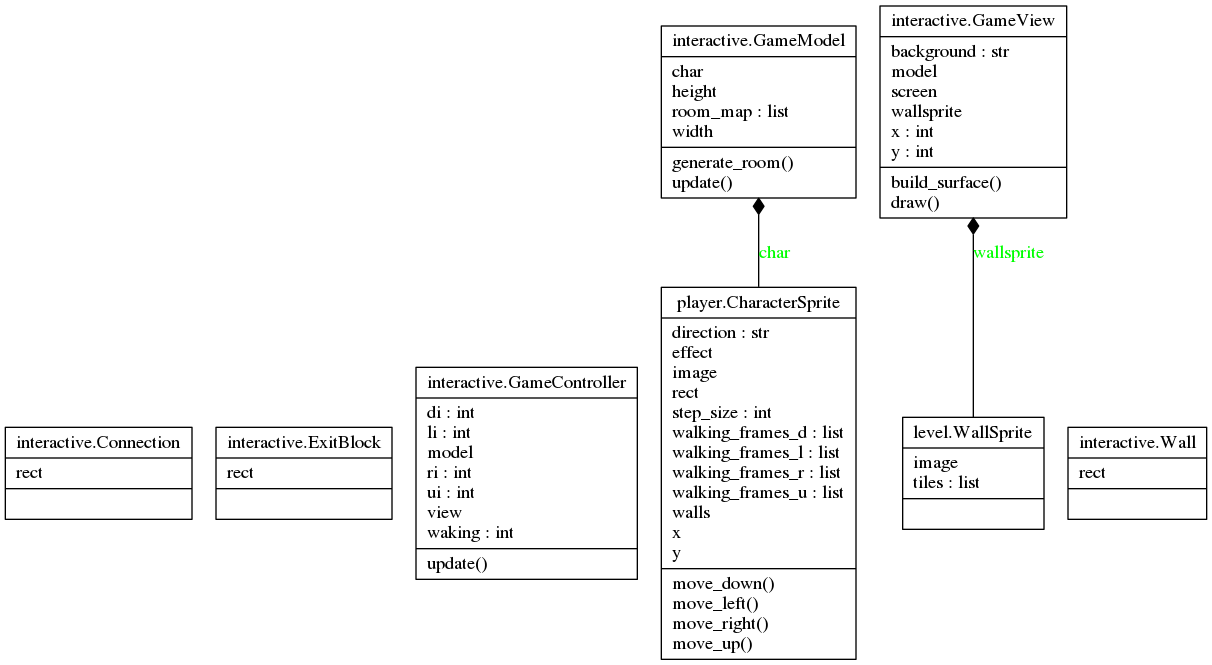
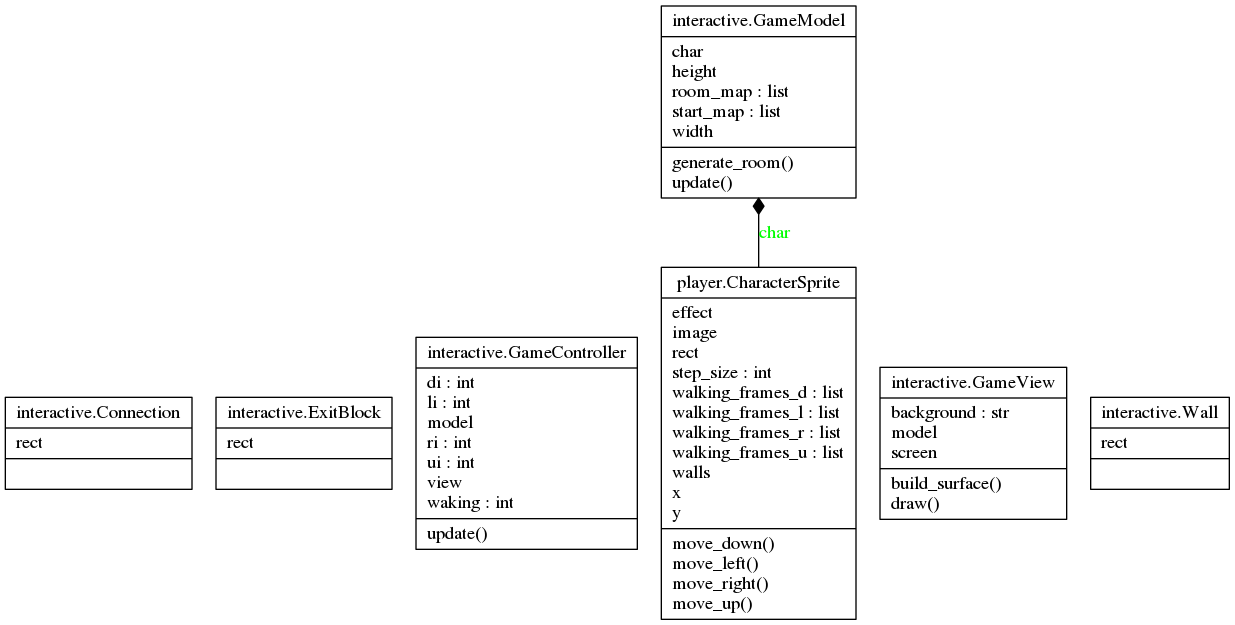
Added documentation and cleaned up old code

Changed region(s): [[0.0, 0.0, 1.0, 1.0]]

diff --git a/level.py b/level.py
@@ -4,14 +4,13 @@ from spritesheet_functions import SpriteSheet
 import random
 
 class Level(object):
-	#inherit from spritesheet? probably no, but we will need some sort of visual level as well as the programatic level
-	def __init__(self, x=0):
+	"""This builds the level as a text mapping of the tiles
+
+        attributes: None"""
+        def __init__(self, x=0):
             self.x = x
 
 	def random_gen(self):
-		#probably should take size
-		#15 strings of 20 characters
-
 		#generate top wall
 		twall = ''
 		for x in range(20):
@@ -47,38 +46,36 @@ class Level(object):
 
 
 class WallSprite(pygame.sprite.Sprite):
+    """This is the class for all of the wall sprites
 
+    attributes: image"""
     def __init__(self):
         super(WallSprite, self).__init__()
 
-        self.tiles = []
-
-        #sprite_sheet = SpriteSheet('images/rooms/Tileset.png')
         sprite_sheet = SpriteSheet('images/tilesets/walls.png')#3 x 4
         horiz = [0, 32, 64]
         vert= [0, 32, 64, 96]
         self.image = sprite_sheet.get_image(random.choice(horiz),random.choice(vert),32,32)
 
 class DoorSprite(pygame.sprite.Sprite):
+    """This is the class for all of the door sprites
+
+    attributes: image"""
 
     def __init__(self):
         super(DoorSprite, self).__init__()
-
-        self.tiles = []
 
         sprite_sheet = SpriteSheet('images/tilesets/doors.png')#4 x 1
         horiz = [0, 32, 64, 96]
         vert= [0]
 
         self.image = sprite_sheet.get_image(random.choice(horiz),random.choice(vert),32,32)
-#floor 7x 6
-#door 4x1
 class FloorSprite(pygame.sprite.Sprite):
+    """This is the class for all of the floor sprites
 
+    attributes: image"""
     def __init__(self):
         super(FloorSprite, self).__init__()
-
-        self.tiles = []
 
         sprite_sheet = SpriteSheet('images/tilesets/floors.png')#7x6
         horiz = [0, 32, 64, 96, 128, 160, 192]

diff --git a/interactive.py b/interactive.py
@@ -20,9 +20,6 @@ class GameView(object):
         pygame.mixer.music.load('sounds/TheDarkLake.mp3') # this music plays
         pygame.mixer.music.play(-1)
         self.background = 'images/room2.png'
-        self.wallsprite = WallSprite()
-        self.x = 0
-        self.y = 0
 
     def draw(self, filename):
         """ Draw the game to the pygame window"""
@@ -36,6 +33,7 @@ class GameView(object):
         pygame.display.flip()
 
     def build_surface(self, room_map):
+        """Builds the random rooms image for our procdurally generated rooms"""
         surf = pygame.Surface(size)
         x = 0
         y = 0
@@ -60,7 +58,7 @@ class GameView(object):
 
 
 class GameModel(object):
-    """This is a test model for my game
+    """This is the model for the game
 
     attributes: height, width, char, start_map, room_map"""
     def __init__(self, width, height):
@@ -132,6 +130,9 @@ class ExitBlock(object):
         self.rect = pygame.Rect(pos[0], pos[1], 32, 32)
 
 class Connection(object):
+    """It exits
+
+    attribute: rect"""
 
     def __init__(self, pos):
         connections.append(self)
@@ -159,6 +160,7 @@ class GameController(object):
         pressed = pygame.key.get_pressed()
         global timer
         if pressed[pygame.K_9]:
+            #This is the wake up function
             self.waking += 1
             if self.waking * random() > 2:
                 timer = True
@@ -191,6 +193,7 @@ class GameController(object):
             self.di = (self.di + 1) % 4
             self.model.char.move_down(self.di)
 
+        #these functions check for collisions with interactive blocks
         for exit_block in exit_blocks:
             if self.model.char.rect.colliderect(exit_block):
                 raise SystemExit, "You won't go out there."

diff --git a/player.py b/player.py
@@ -14,7 +14,6 @@ class CharacterSprite(pygame.sprite.Sprite):
         self.y = y_coor
         self.step_size = 5
         self.walls = walls
-        #opens the can of worms of passing in a mutable datatype
 
         self.walking_frames_l = []
         self.walking_frames_r = []
@@ -22,8 +21,6 @@ class CharacterSprite(pygame.sprite.Sprite):
         self.walking_frames_d = []
         self.effect = pygame.mixer.Sound('sounds/step.wav')
 
-        self.direction = 'd'
-        #list of colisions would go here  #(maybe)
         sprite_sheet = SpriteSheet('images/smallspritesheet.png')
         for i in range(0,109, 36):
             image = sprite_sheet.get_image(i,0,36, 60)
@@ -46,10 +43,6 @@ class CharacterSprite(pygame.sprite.Sprite):
         self.rect = self.image.get_rect().inflate(-10,-32)
         self.rect.move_ip(self.x,self.y + 16)
 
-    """These functions move the thing. Should check for collisions and adjust
-    accordingly now? Untested cause the wall rects don't exist yet"""
-
-    #These should really be one move function with two parameters...
     def move_left(self, li):
         self.x -= self.step_size
         self.rect.move_ip(-self.step_size, 0)
